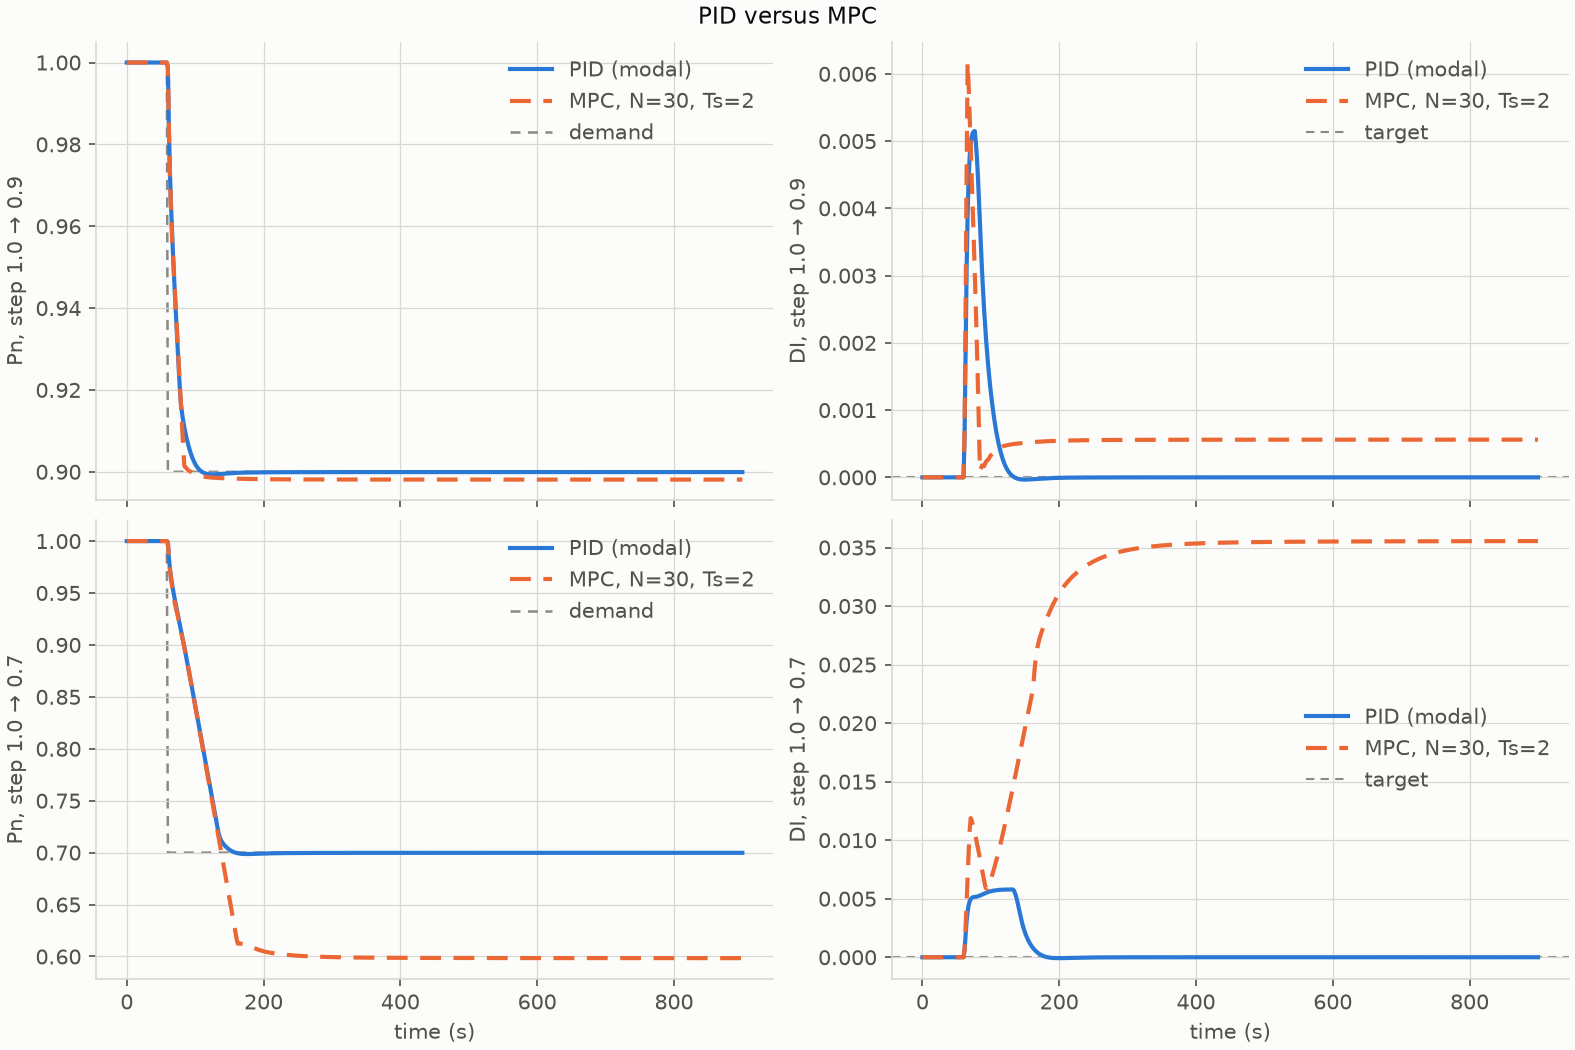
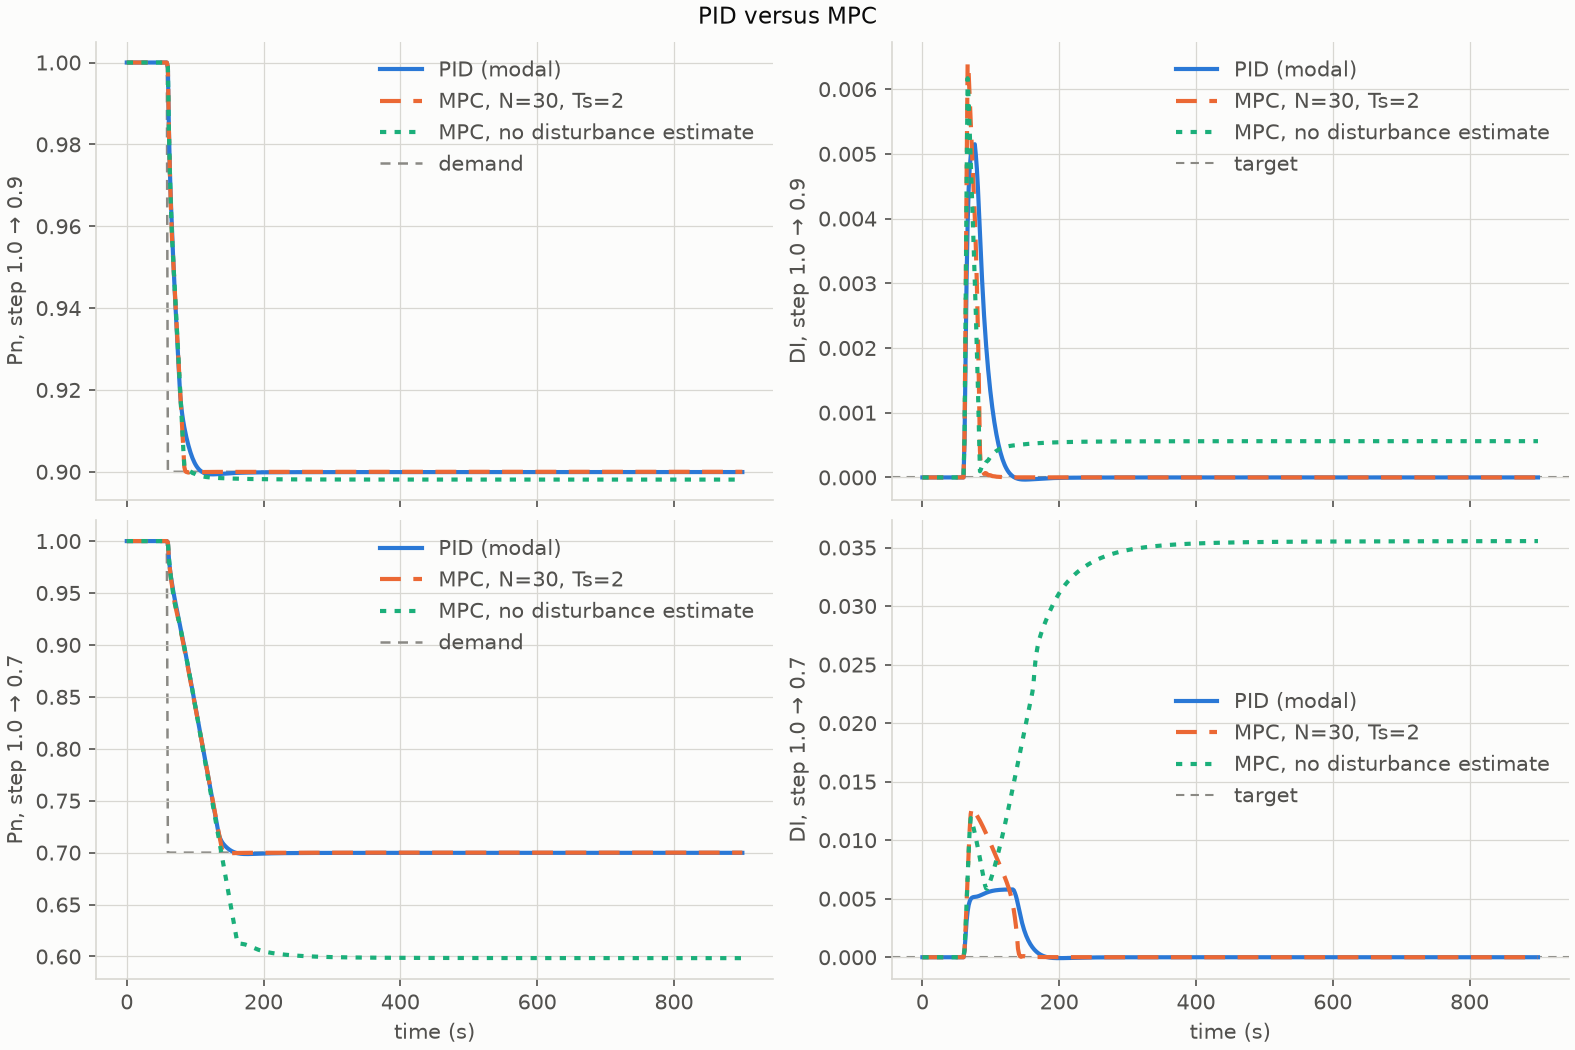
Make RodMPC offset-free with a disturbance estimate
The two-rod MPC settled at 0.8981 on a step to 0.90 because its model
does not contain the steam valve, which another controller moves. Add a
one-sample state-disturbance estimate (offset_free=True by default),
explain it in example 4, and re-measure the tables in examples 4 and 5.
The comparison figure now shows the MPC with and without the estimate.

diff --git a/docs/MORE_CONTROL_EXAMPLES.md b/docs/MORE_CONTROL_EXAMPLES.md
@@ -282,9 +282,9 @@ from scipy.signal import cont2discrete
 class RodMPC(Controller):
     name = "rod_mpc"
     def __init__(self, N=30, Ts=2.0, q=(1.0, 3.0), r=1e-9, v_max=72.0,
-                 outputs=("Pn", "DI")):
+                 outputs=("Pn", "DI"), offset_free=True):
         self.N, self.Ts, self.q, self.r = N, Ts, np.array(q, float), r
-        self.v_max, self.outputs = v_max, outputs
+        self.v_max, self.outputs, self.offset_free = v_max, outputs, offset_free
 
     def initialize(self, ctx):
         A, B, C, D, S = linearize(ctx.plant, ctx.x0, ctx.u0)
@@ -294,30 +294,42 @@ class RodMPC(Controller):
         self.Ad, self.Bd, self.Cd, self.S = Ad, Bd, Cd, S
         self.nu, self.ny, self.nx = Bd.shape[1], Cd.shape[0], Ad.shape[0]
         N = self.N
-        Psi   = np.zeros((N*self.ny, self.nx))
-        Theta = np.zeros((N*self.ny, N*self.nu))
-        Ak = np.eye(self.nx)
+        Psi   = np.zeros((N*self.ny, self.nx))        # effect of the current state
+        Theta = np.zeros((N*self.ny, N*self.nu))      # effect of the planned moves
+        Phi   = np.zeros((N*self.ny, self.nx))        # effect of a constant disturbance
+        Ak, Sk = np.eye(self.nx), np.zeros((self.nx, self.nx))
         for k in range(N):
-            Ak = Ak @ Ad if k else Ad
+            Sk = Sk + Ak                               # I + Ad + ... + Ad^k
+            Ak = Ak @ Ad                               # Ad^(k+1)
             Psi[k*self.ny:(k+1)*self.ny, :] = Cd @ Ak
+            Phi[k*self.ny:(k+1)*self.ny, :] = Cd @ Sk
             for j in range(k+1):
                 Theta[k*self.ny:(k+1)*self.ny, j*self.nu:(j+1)*self.nu] = \
                     Cd @ np.linalg.matrix_power(Ad, k-j) @ Bd
-        self.Psi, self.Theta = Psi, Theta
+        self.Psi, self.Theta, self.Phi = Psi, Theta, Phi
         self.Wy = np.diag(np.tile(np.sqrt(self.q), N))
         self.Amat = np.vstack([self.Wy @ Theta, np.sqrt(self.r)*np.eye(N*self.nu)])
         self.lo = np.full(N*self.nu, -self.v_max)
         self.hi = np.full(N*self.nu, +self.v_max)
+        self.z_prev = self.v_prev = None               # last sample's state and move
         return EMPTY
 
     def update(self, t, sig, xc, u, ctx):
         z = (ctx.x - ctx.x0) / self.S                   # scaled deviation state
+        # Disturbance estimate: whatever the model failed to predict over the
+        # last sample.  It is the footprint of every input the model does not
+        # contain (the valve, the grid demand) and of linearisation error.
+        e = np.zeros(self.nx)
+        if self.offset_free and self.z_prev is not None:
+            e = z - (self.Ad @ self.z_prev + self.Bd @ self.v_prev)
         tgt = np.array([ctx.demand(t) - ctx.sig0["Pn"], 0.0 - ctx.sig0["DI"]])
         ref = np.tile(tgt, self.N)
-        b = np.concatenate([self.Wy @ (ref - self.Psi @ z), np.zeros(self.N*self.nu)])
+        free = self.Psi @ z + self.Phi @ e              # what happens with no moves
+        b = np.concatenate([self.Wy @ (ref - free), np.zeros(self.N*self.nu)])
         sol = lsq_linear(self.Amat, b, bounds=(self.lo, self.hi),
                          lsmr_tol="auto", max_iter=40)
         v = sol.x[:self.nu]                             # receding horizon
+        self.z_prev, self.v_prev = z, v.copy()
         u[IU["vrod_M"]]  += float(v[0])
         u[IU["vrod_AO"]] += float(v[1])
         return EMPTY
@@ -334,16 +346,45 @@ Two features of the model make this a *simple* MPC rather than a project:
 **Always scale.** `linearize` returns the scaling vector `S`; the states span
 seven decades and the condensed matrices are hopeless without it.
 
-Horizon and sample period matter more than the weights. Same loop and demand
-as example 3, with `RodMPC(N, Ts, r)` in place of the PID, `run(900, n_out=600)`:
+### The disturbance estimate
+
+The prediction model contains only the two rods. In the loop, a separate
+controller is moving the steam valve the whole time, and the model has never
+heard of it. Without a correction the MPC plans against a plant whose valve it
+believes is at trim, and settles where its *predicted* error is zero rather than
+where the real one is: 0.8981 instead of 0.9000 on a 10 % step. Hold the valve
+fixed and that offset disappears completely, which is how we know the valve is
+the cause and not the move penalty or the linearisation.
+
+`e` is the fix. At each sample it is the difference between the state the plant
+actually reached and the state the model predicted one sample ago. That gap is
+the footprint of everything the model leaves out, whichever input caused it.
+The controller assumes it persists over the horizon (`Phi @ e`) and plans
+around it. Once the plant settles, the prediction is exact and the offset is
+gone. `offset_free=False` switches it off, to see the difference.
+
+`z_prev` and `v_prev` are ordinary attributes. That is legal only because the
+controller is sampled, so `update` runs exactly once per sample.
+
+### Tuning
+
+Same demand as example 3, with `RodMPC(N, Ts, r)` in place of the PID plus
+`PressurizerLevelPI()` (example 5 explains why that is mandatory),
+`run(900, n_out=600)`:
 
 ```
  N   Ts      r        IAE    |DI|max   Pn_end   runtime
-20  5.0   1e-06   61.2174    0.01490   0.8206     1.6 s
-20  5.0   1e-08   26.7007    0.00544   0.8679     1.3 s
-20  2.0   1e-08    4.6554    0.00596   0.8955     4.0 s
-60  2.0   1e-09    2.5338    0.00617   0.8981     7.3 s
+20  5.0   1e-06    1.8895    0.00154   0.8999     1.2 s
+20  5.0   1e-08    1.1151    0.00544   0.9000     1.2 s
+20  2.0   1e-08    1.0513    0.00619   0.9000     4.6 s
+60  2.0   1e-09    1.0458    0.00641   0.9000     4.3 s
 ```
+
+All four reach the target. The move penalty `r` is the trade that is left: the
+heavily penalised first row moves the rods least (peak 69 spm, never on the
+stop) and holds `DI` four times tighter, at the cost of slower power tracking.
+A longer horizon buys almost nothing here: 20 steps and 60 steps differ in the
+fourth decimal.
 
 ---
 
@@ -365,21 +406,27 @@ without it only because they are gentler.
 **Small step, 1.0 → 0.9:**
 
 ```
-            IAE      |DI|max   Pn_end   rodmax   travel   runtime
-PID      1.2417      0.00515   0.8999     72.0    148.1     0.5 s
-MPC      2.5315      0.00617   0.8981     72.0    149.8     3.6 s
+                      IAE      |DI|max   Pn_end   rodmax   travel   runtime
+PID                1.2417      0.00515   0.8999     72.0    148.1     0.5 s
+MPC                1.0459      0.00641   0.9000     72.0    151.5     2.8 s
+MPC, no estimate   2.5315      0.00617   0.8981     72.0    149.8     3.3 s
 ```
 
 **Large step, 1.0 → 0.7:**
 
 ```
-            IAE      |DI|max   Pn_end   rodmax   travel   runtime
-PID     11.7814      0.00579   0.6998     72.0    152.3     0.6 s
-MPC     86.5989      0.03555   0.5984     72.0    169.1     4.3 s
+                      IAE      |DI|max   Pn_end   rodmax   travel   runtime
+PID               11.7814      0.00579   0.6998     72.0    152.3     0.6 s
+MPC               11.4429      0.01276   0.7000     72.0    155.9     3.2 s
+MPC, no estimate  86.5989      0.03555   0.5984     72.0    169.1     4.2 s
 ```
 
-PID wins both, and on the large step it is not close. Two separate reasons, both
-worth reporting rather than hiding:
+"MPC, no estimate" is `RodMPC(offset_free=False)`.
+
+With the disturbance estimate the two are close, and they win on different
+outputs: MPC tracks power slightly better on both steps, PID holds `DI` tighter
+on both (by a factor of two on the large step) and runs about five times
+faster. Without the estimate MPC loses badly, for two separate reasons:
 
 ![PID versus MPC](figures/ex11_pid_vs_mpc.png)
 
@@ -387,20 +434,23 @@ Small multiples: rows are the two step sizes, columns the two controlled
 outputs. Same colour for the same controller across all four panels, so the eye
 can carry identity between them.
 
-**MPC has no integral action.** It settles at 0.8981 instead of 0.9000 on the
-small step — a pure state-feedback law with a move penalty has a steady-state
-offset. The standard fix is an offset-free formulation: augment the model with a
-disturbance state, estimate it, and correct the target. That is the first thing
-to add.
+**The model does not contain the valve.** On the small step the uncorrected MPC
+settles at 0.8981 instead of 0.9000. The valve controller has closed the valve
+to about 0.90 of trim and the prediction still assumes it is at trim (example
+4). With the valve held fixed the same controller lands on 0.9000.
 
 **The prediction model is linearized at 100% power.** CP8 measures the linear
 validity envelope at about a 12% step for 5% error. A 30% step is far outside it,
-so the MPC confidently drives to where its model says 0.70 is and lands at 0.60.
-PID uses no model and doesn't care. The fix is re-linearizing per operating point
-— the CP9 setpoint family is exactly that input — or an LPV/gain-scheduled MPC.
+so the uncorrected MPC confidently drives to where its model says 0.70 is and
+lands at 0.60. PID uses no model and doesn't care.
 
-**This is not an argument that MPC is worse.** It is an argument that MPC's
-advantages aren't exercised by this problem. The 2×2 rod problem is perfectly
+The disturbance estimate removes both, because it does not care where a
+prediction error comes from. It lands on 0.7000 with a model that is still
+linearised at 100 %. Re-linearizing per operating point (the CP9 setpoint
+family is exactly that input) would improve the transient further.
+
+**Neither controller is clearly better here.** MPC's advantages aren't
+exercised by this problem. The 2×2 rod problem is perfectly
 decoupled in modal coordinates (off-diagonal/diagonal = 0.0000 in the modal `C·A·B`),
 has no active output constraints, and has one dominant timescale. Those are the
 conditions under which a well-tuned PID is hard to beat.
@@ -446,7 +496,7 @@ Four rules that keep a comparison honest:
   for. A controller that wins on IAE by saturating the rods hasn't won.
 - **Report both outputs.** A power controller that looks excellent while `DI`
   runs to 0.45 and climbing (example 1) is not excellent.
-- **Report runtime.** 0.6 s against 4.3 s is a real difference if you intend to
+- **Report runtime.** 0.6 s against 3.2 s is a real difference if you intend to
   run a thousand scenarios.
 
 ---

diff --git a/docs/QUICKSTART.md b/docs/QUICKSTART.md
@@ -1340,7 +1340,8 @@ edge.
 > moves the plant — not only the one you are commanding.** A real design fixes
 > this with a disturbance model and an offset-free formulation. `SimpleMPC` has
 > neither, deliberately, because leaving them out is what makes the failure
-> visible.
+> visible. `RodMPC` in `MORE_CONTROL_EXAMPLES.md` example 4 adds one, in about
+> five lines, and measures what it buys.
 
 ### The one knob
 
